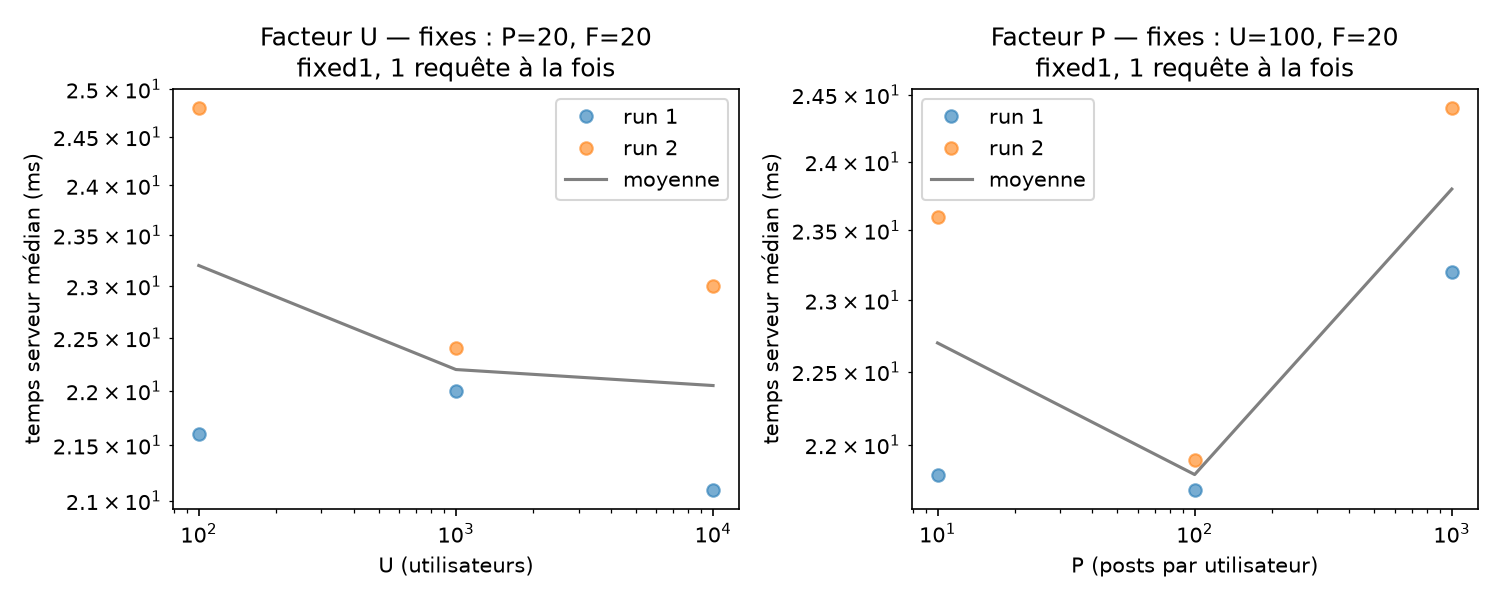
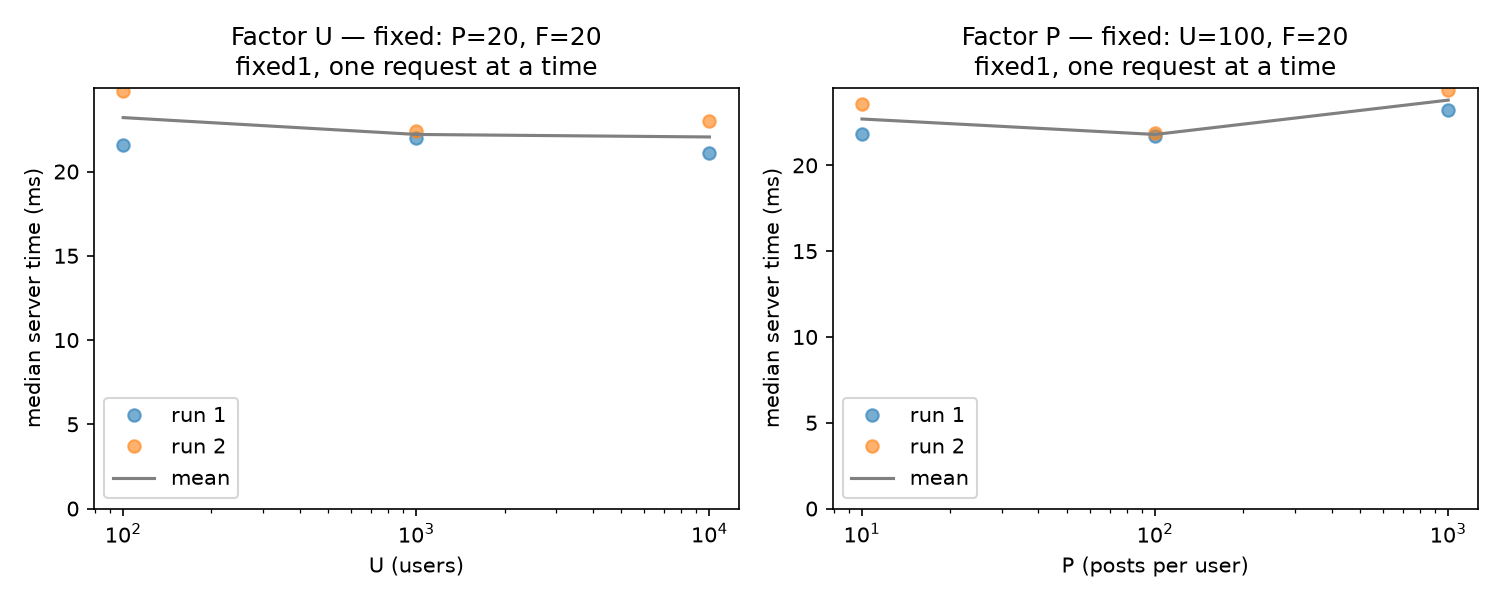
Figures 1a/1b: English labels, linear y axis from 0

diff --git a/scripts/plot_part1.py b/scripts/plot_part1.py
@@ -1,6 +1,6 @@
-"""Part 1 : figures 1a et 1b a partir de raw/part1/*.csv (fixed1, -u 1).
+"""Part 1: figures 1a and 1b from raw/part1/*.csv (fixed1, -u 1).
 Usage : python scripts/plot_part1.py
-Produit figures/fig1a.csv/.png et figures/fig1b.csv/.png
+Produces figures/fig1a.csv/.png and figures/fig1b.csv/.png
 """
 import csv, glob, os, statistics
 import matplotlib
@@ -10,7 +10,7 @@ import matplotlib.pyplot as plt
 RAW, OUT = "raw/part1", "figures"
 os.makedirs(OUT, exist_ok=True)
 
-# prefixe -> (U, P, F)
+# prefix -> (U, P, F)
 PARAMS = {"u100": (100, 20, 20), "base": (1000, 20, 20), "u10000": (10000, 20, 20),
           "p10": (100, 10, 20), "p100": (100, 100, 20), "p1000": (100, 1000, 20)}
 for f in range(5, 101, 5):
@@ -27,7 +27,7 @@ def stats(path):
                 server_median_ms=statistics.median(srv) if srv else float("nan"),
                 client_median_ms=statistics.median(lat) if lat else float("nan"))
 
-data = {}  # prefixe -> {rep: stats}
+data = {}  # prefix -> {rep: stats}
 for path in sorted(glob.glob(f"{RAW}/*_r*.csv")):
     name = os.path.basename(path)[:-4]
     prefix, rep = name.rsplit("_r", 1)
@@ -42,7 +42,7 @@ def mean_over_reps(prefix, key):
     v = [s[key] for s in data.get(prefix, {}).values()]
     return statistics.mean(v) if v else float("nan")
 
-# ---------- Fig 1a : facteurs U et P ----------
+# ---------- Fig 1a: factors U and P ----------
 hdr = ["factor", "dataset", "U_users", "P_posts_per_user", "F_followees", "rep",
        "n_requests", "n_instances", "server_median_ms", "client_median_ms"]
 lines = []
@@ -61,15 +61,15 @@ for a, factor, sets, idx, fixed in ((ax[0], "U", ["u100", "base", "u10000"], 0, 
     for rep in (1, 2):
         ys = [data.get(p, {}).get(rep, {}).get("server_median_ms", float("nan")) for p in sets]
         a.plot(xs, ys, "o", alpha=0.6, label=f"run {rep}")
-    a.plot(xs, [mean_over_reps(p, "server_median_ms") for p in sets], "-", color="gray", label="moyenne")
-    a.set_xscale("log"); a.set_yscale("log")
-    a.set_xlabel(f"{factor} ({'utilisateurs' if factor == 'U' else 'posts par utilisateur'})")
-    a.set_ylabel("temps serveur médian (ms)")
-    a.set_title(f"Facteur {factor} — fixes : {fixed}\nfixed1, 1 requête à la fois")
+    a.plot(xs, [mean_over_reps(p, "server_median_ms") for p in sets], "-", color="gray", label="mean")
+    a.set_xscale("log"); a.set_ylim(bottom=0)
+    a.set_xlabel(f"{factor} ({'users' if factor == 'U' else 'posts per user'})")
+    a.set_ylabel("median server time (ms)")
+    a.set_title(f"Factor {factor} — fixed: {fixed}\nfixed1, one request at a time")
     a.legend()
 fig.tight_layout(); fig.savefig(f"{OUT}/fig1a.png", dpi=150); plt.close(fig)
 
-# ---------- Fig 1b : facteur F ----------
+# ---------- Fig 1b: factor F ----------
 fsets = [f"f{f:02d}" for f in range(5, 101, 5)]
 lines = []
 for p in fsets:
@@ -84,10 +84,10 @@ write_csv(f"{OUT}/fig1b.csv",
 
 fig, a = plt.subplots(figsize=(6.5, 4.2))
 xs = [PARAMS[p][2] for p in fsets]
-a.plot(xs, [mean_over_reps(p, "server_median_ms") for p in fsets], "o-", label="serveur (Server-Timing)")
+a.plot(xs, [mean_over_reps(p, "server_median_ms") for p in fsets], "o-", label="server (Server-Timing)")
 a.plot(xs, [mean_over_reps(p, "client_median_ms") for p in fsets], "s--", label="client (Locust)")
-a.set_xlabel("F (comptes suivis par utilisateur)"); a.set_ylabel("médiane (ms), moyenne des runs")
-a.set_title("Facteur F — fixes : U=120, P=20\nfixed1, 1 requête à la fois")
+a.set_xlabel("F (followees per user)"); a.set_ylabel("median (ms), mean of runs")
+a.set_title("Factor F — fixed: U=120, P=20\nfixed1, one request at a time")
 a.legend(); a.grid(alpha=0.3)
 fig.tight_layout(); fig.savefig(f"{OUT}/fig1b.png", dpi=150); plt.close(fig)
 print("OK :", sorted(data), "->", OUT)
